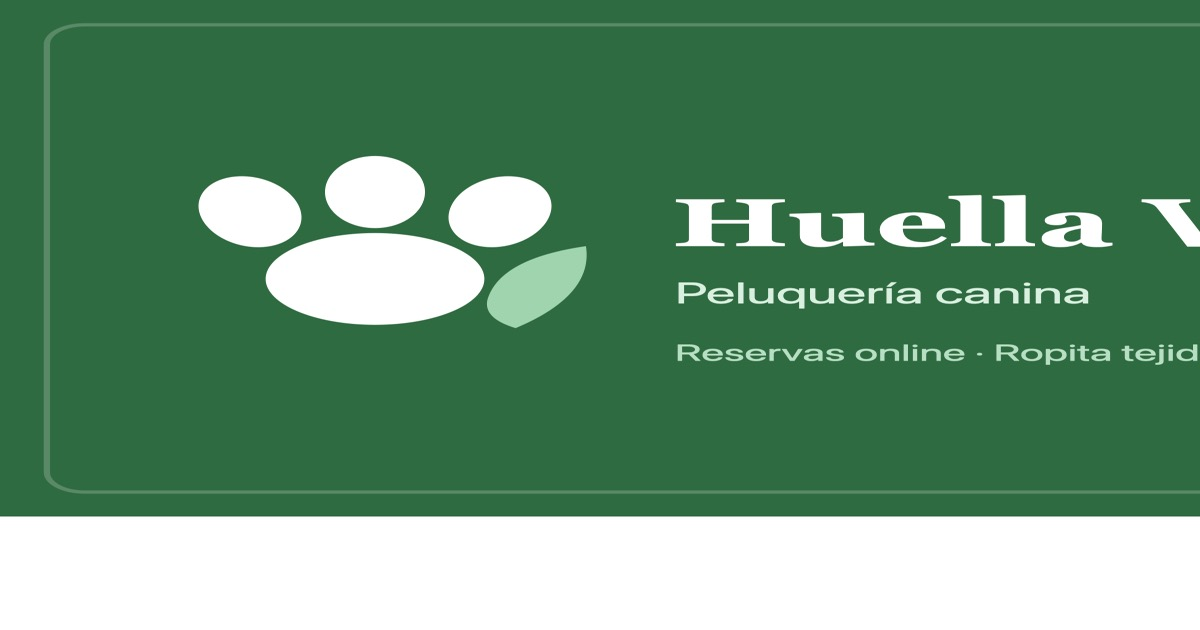
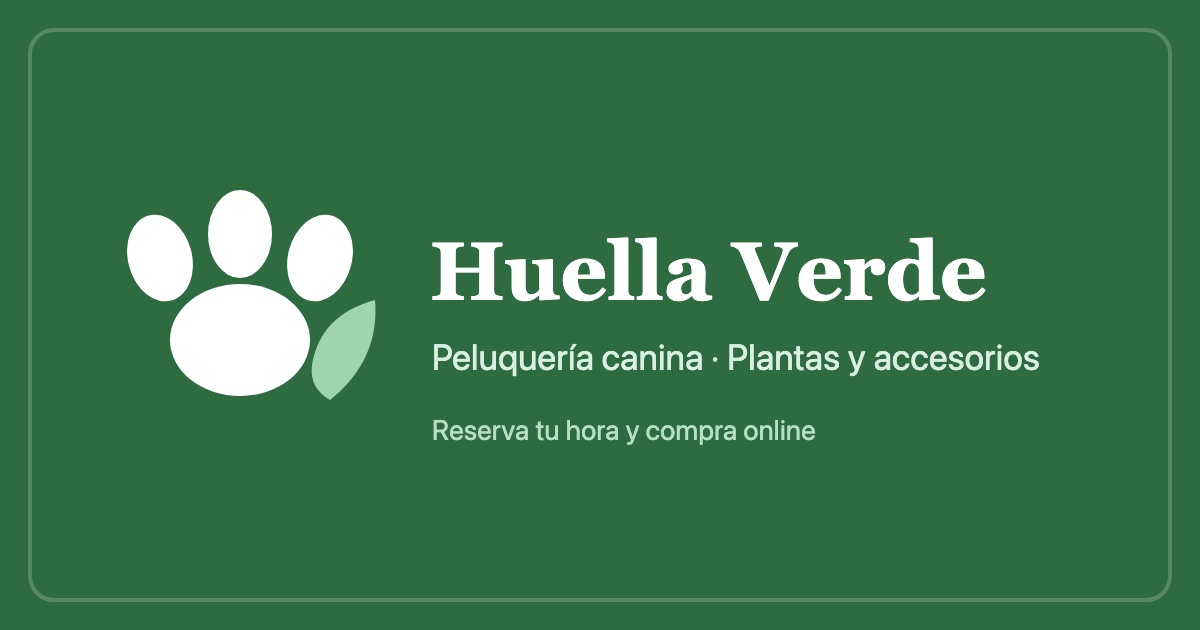
fix(qa): contador del carrito sin React, objetivos táctiles y textos de entrega
- CarritoBadge pasa de isla React a componente Astro con script de 313 B:
  las páginas sin carrito ya no cargan React.
- Botones −/+ del carrito a 44 px con borde de contraste suficiente, y
  alto reservado para la lista (evita salto de layout).
- Enlaces de la ficha ("Volver", "¿Prefieres transferencia?") con área
  táctil de 44 px.
- Carrito y página de retorno usan resumenEntrega() de terminos.ts; el
  carrito avisa antes de pagar que las plantas no tienen retracto.
- og-image sin "ropita", con las dos verticales; README al alcance actual.

diff --git a/README.md b/README.md
@@ -1,54 +1,61 @@
-# Peluquería Martha Mella 🐩
+# Huella Verde 🐾🌿
 
-Web de peluquería canina con reservas online (Cal.com) y catálogo de ropita
-tejida a mano. Astro 5 + islas React + CSS moderno, preparada para desplegar
-en Vercel (aún **sin publicar**: ver el estado del proyecto en `docs/`).
+Sitio de Martha Mella con dos negocios diferenciados bajo una misma marca:
 
-## Ramas
+- **Peluquería canina:** servicios, precios y reserva de hora (Cal.com), con
+  opción de dejar la hora pagada online.
+- **Tienda de plantas y accesorios:** maceteros, sustratos, fertilizantes y
+  artículos de cuidado, con carrito y pago online.
 
-- **`main`** — producción. Venta de ropita coordinando **transferencia por
-  WhatsApp** (cero servidor, cero comisión) + botón opcional de **link de
-  pago MercadoPago** por prenda (`linkMercadoPago` en el frontmatter).
-  Servicios se pagan en el local.
-- **`transbank`** — pago online con **Webpay Plus** para productos y reservas
-  (serverless en Vercel; probado E2E en el ambiente de integración).
-- **`mercadopago`** — pago online con **Checkout Pro** para productos y
-  reservas (serverless en Vercel; requiere `MP_ACCESS_TOKEN`, ver
-  `.env.example` de esa rama).
+Astro 5 + islas React + CSS moderno, desplegado en Vercel (funciones
+serverless para los pagos). Aún **sin publicar**: ver `PLAN.md` (local).
+
+## Pagos
+
+Una sola rama, `main`. Medios de pago:
+
+- **Tarjeta:** Webpay Plus (por defecto) o MercadoPago Checkout Pro, detrás
+  de una interfaz común (`src/lib/pasarela.ts`). Se elige con `PASARELA_PAGO`.
+- **Transferencia bancaria directa:** referencia única `HV-PR-…`, comprobante
+  por WhatsApp. Solo se ofrece cuando `src/data/negocio.ts` tiene datos
+  bancarios reales.
+- **Interruptor `PAGOS_ONLINE=on|off`:** en `off` no se cobra con tarjeta y el
+  sitio ofrece WhatsApp.
+
+Las páginas preguntan a `GET /api/pago/estado` qué medios están disponibles.
+Cada cambio de variables en Vercel requiere **Redeploy**, y las credenciales
+van **solo en el entorno Production**.
 
 ## Comandos
 
-| Comando | Acción |
-|---|---|
-| `npm install` | Instalar dependencias |
-| `npm run dev` | Servidor de desarrollo en `localhost:4321` |
-| `npm run build` | Build de producción en `./dist/` |
-| `npm run preview` | Previsualizar el build |
+- `npm install` — instalar dependencias
+- `npm run dev` — servidor de desarrollo en `localhost:4321`
+- `npm run build` — build de producción
+- `npm run preview` — previsualizar el build
 
 ## Dónde se edita cada cosa
 
-| Quiero cambiar… | Archivo |
-|---|---|
-| Nombre, WhatsApp, dirección, horarios | `src/data/negocio.ts` |
-| Servicios, precios, duraciones | `src/data/servicios.ts` |
-| Prendas del catálogo | `src/content/prendas/*.md` (una prenda = un archivo) |
-| Fotos de prendas | `src/assets/prendas/` |
-| Colores y tipografía | `src/styles/tokens.css` |
+- **Nombre, WhatsApp, dirección, horarios, datos bancarios:** `src/data/negocio.ts`
+- **Servicios de peluquería, precios, duraciones:** `src/data/servicios.ts`
+- **Políticas (entrega, retracto, devoluciones, reservas):** `src/data/terminos.ts`
+- **Plantas:** `src/content/plantas/*.md` (un producto = un archivo)
+- **Accesorios:** `src/content/accesorios/*.md`
+- **Ilustraciones de productos:** `src/components/ilustraciones/` (catálogo en `/dev/ilustraciones`)
+- **Colores y tipografía:** `src/styles/tokens.css`
+- **Variables de entorno:** ver `.env.example` (pasarela, credenciales, avisos por correo)
 
-Los datos actuales son **placeholders marcados con `TODO(Anthony)`**
-(la Fase 0 del PLAN.md sigue pendiente: precios reales, fotos, número de
-WhatsApp, cuenta Cal.com y dominio).
+Los datos de ejemplo están marcados con `TODO(Anthony)` hasta que Martha
+entregue los reales. `/ropita` sigue en el código pero fuera del menú y de
+los buscadores.
 
 ## Documentación
 
-Los documentos de planificación, decisión y análisis **no se versionan**:
-viven solo en el computador local (`PLAN.md` y `docs/` están en `.gitignore`).
+Los documentos de planificación y estudio **no se versionan**: viven solo en
+el computador local (`PLAN.md` y `docs/` están en `.gitignore`).
 
-| Archivo (local) | Qué contiene |
-|---|---|
-| `PLAN.md` | Plan maestro por fases |
-| `docs/ESTADO-DEL-PROYECTO.md` | Análisis íntegro del estado, hallazgos y pendientes |
-| `docs/DECISIONES.md` | Decisiones de arquitectura (ADRs) explicadas |
-| `docs/GUIA_AGENDA_PARA_LA_DUEÑA.md` | Guía no técnica de la agenda para Martha |
-| `docs/COMO_FUNCIONAN_LOS_PAGOS.md` | Modelo de cobro y flujo de pasarelas |
-| `docs/BITACORA.md` | Registro crudo de trabajo |
+- `PLAN.md` — plan por fases hasta el lanzamiento
+- `docs/DECISIONES.md` — decisiones de arquitectura (ADR) explicadas
+- `docs/COMO_FUNCIONAN_LOS_PAGOS.md` — flujo de pago, pasarelas y transferencia
+- `docs/GUIA-CALCOM.md` — configuración de la agenda
+- `docs/MANUAL-IMPLEMENTACION.md` — pasos para publicar
+- `docs/REQUISITOS-PAGOS-MARTHA.md` — lo que Martha debe entregar para cobrar online
